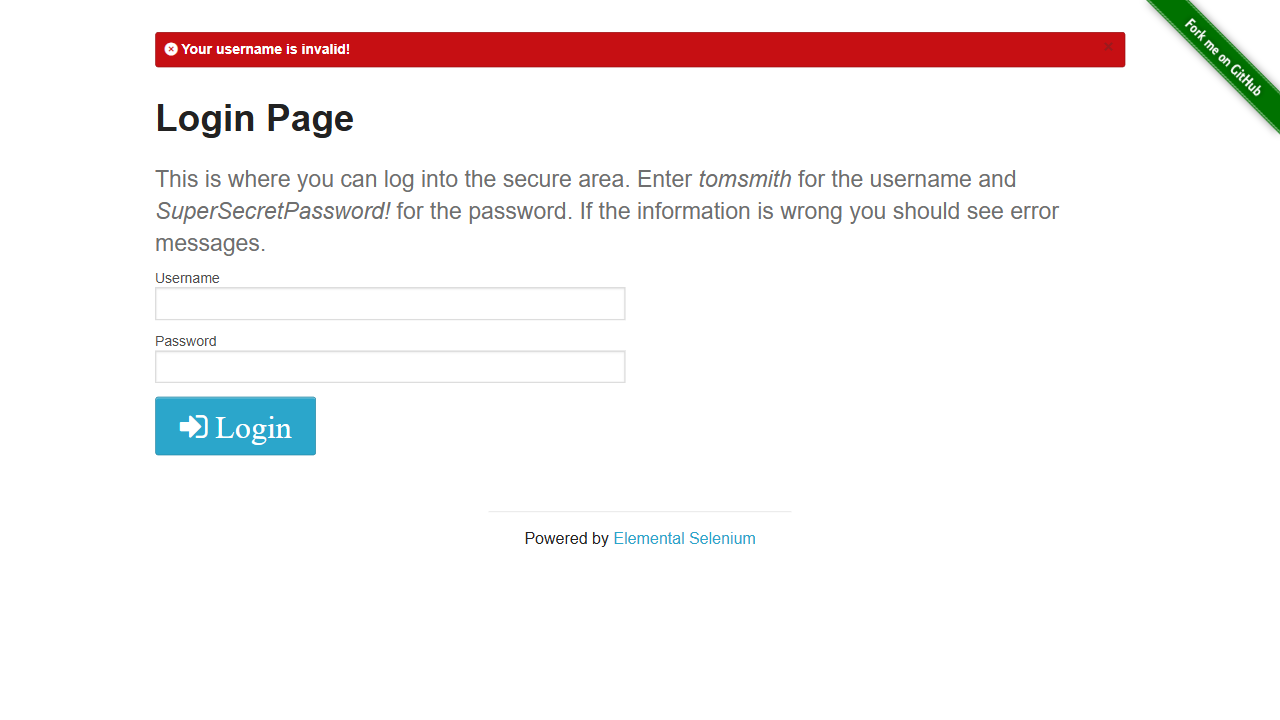
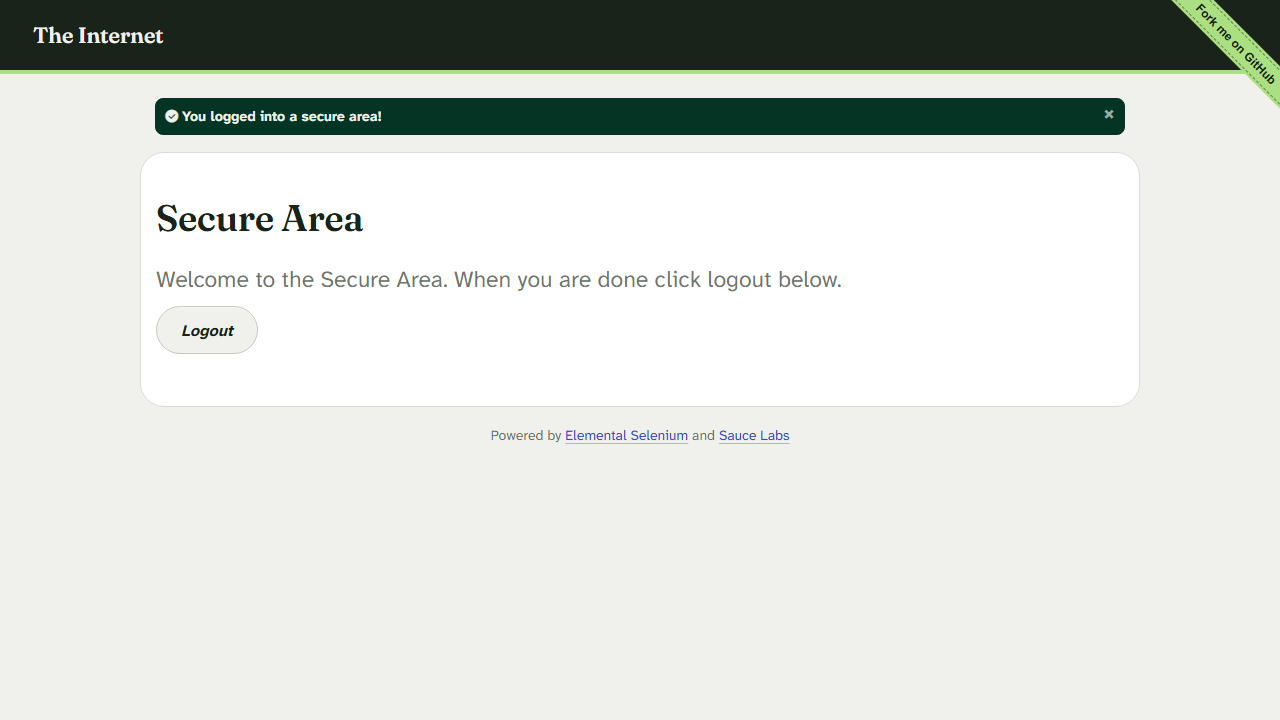
Add test for invalid password scenario in login page

diff --git a/tests/SauceDemo_Login.spec.js b/tests/SauceDemo_Login.spec.js
@@ -1,6 +1,5 @@
 import { test, expect } from '@playwright/test';
-
-
+test.use({ video: 'on' });
 test('SauceDemo - Login, Product and Add to Cart', async ({ page }) => {
 
     // 1. Open website
@@ -54,7 +53,6 @@ test('SauceDemo - Login, Product and Add to Cart', async ({ page }) => {
     await page.waitForTimeout(1500);
 
     console.log('Product Added to Cart');
-    
 
     // 10. Verify cart badge
     await expect(page.locator('.shopping_cart_badge'))
@@ -104,5 +102,75 @@ test('SauceDemo - Login, Product and Add to Cart', async ({ page }) => {
         .toHaveText('Checkout: Your Information');
 
     console.log('Checkout Page Verified');
+    await page.waitForTimeout(1000);
+
+
+    // ==========================================
+    // CUSTOMER INFORMATION
+    // ==========================================
+
+    // 16. Enter First Name
+    await page.locator('#first-name').fill('Sohib');
+    await page.waitForTimeout(500);
+
+    // 17. Enter Last Name
+    await page.locator('#last-name').fill('Khan');
+    await page.waitForTimeout(500);
+
+    // 18. Enter Postal Code
+    await page.locator('#postal-code').fill('302001');
+    await page.waitForTimeout(1000);
+
+    console.log('Customer Information Entered Successfully');
+
+
+    // ==========================================
+    // CHECKOUT OVERVIEW
+    // ==========================================
+
+    // 19. Click Continue
+    await page.getByRole('button', { name: 'Continue' }).click();
+    await page.waitForTimeout(1500);
+
+    // 20. Verify Checkout Overview page
+    await expect(page.locator('.title'))
+        .toHaveText('Checkout: Overview');
+
+    console.log('Checkout Overview Page Verified');
+    await page.waitForTimeout(1000);
+
+
+    // ==========================================
+    // VERIFY PRODUCT ON OVERVIEW
+    // ==========================================
+
+    // 21. Verify product
+    await expect(page.locator('.inventory_item_name'))
+        .toHaveText('Sauce Labs Backpack');
+
+    console.log('Product Verified on Checkout Overview');
+    await page.waitForTimeout(1000);
+
+
+    // ==========================================
+    // FINISH ORDER
+    // ==========================================
+
+    // 22. Click Finish
+    await page.getByRole('button', { name: 'Finish' }).click();
+    await page.waitForTimeout(1500);
+
+    console.log('Finish Button Clicked Successfully');
+
+
+    // ==========================================
+    // VERIFY ORDER CONFIRMATION
+    // ==========================================
+
+    // 23. Verify Thank You message
+    await expect(page.locator('.complete-header'))
+        .toHaveText('Thank you for your order!');
+
+    console.log('Order Placed Successfully');
 
 });

diff --git a/tests/Login_Screenshot.spec.js b/tests/Login_Screenshot.spec.js
@@ -1,18 +1,23 @@
 const { test, expect } = require('@playwright/test');
 
-
-test.use({ video: 'on' });
 test('Login Screenshot', async ({ page }) => {
+    test.setTimeout(60000);
 
-    await page.goto('https://the-internet.herokuapp.com/login');
-
-    await page.locator('#username').fill('jlkdfjklgkjl');
-    await page.locator('#password').fill('15458214');
-    
-    await page.getByRole('button', { name: 'Login' }).click();
-
-    await page.screenshot({
-        path: 'screenshots/after-login1.png'
+    await page.goto('https://the-internet.herokuapp.com/login', {
+        waitUntil: 'domcontentloaded',
+        timeout: 60000,
     });
 
+    await expect(page.locator('h2')).toContainText('Login');
+    await page.locator('#username').fill('tomsmith');
+    await page.locator('#password').fill('SuperSecretPassword!');
+
+    await page.getByRole('button', { name: 'Login' }).click();
+
+    await expect(page.locator('#flash')).toContainText(/You logged into a secure area!/);
+
+    await page.screenshot({
+        path: 'screenshots/after-login1.png',
+        fullPage: true,
+    });
 });

diff --git a/tests/login_hrms.spec.js b/tests/login_hrms.spec.js
@@ -7,14 +7,18 @@ test('login Hrms', async ({ page }) => {
 
   await page.getByRole('textbox', { name: 'Username' }).fill('Admin');
 
-  await page.getByRole('textbox', { name: 'Password' }).fill('admin123');
+  await page.getByRole('textbox', { name: 'Password' }).fill('admin1234');
 
   await page.getByRole('button', { name: 'Login' }).click();
 
   
 
- await expect(page.getByRole('heading', { name: 'Dashboard' })).toBeVisible();
+ //await expect(page.getByRole('heading', { name: 'Dashboard' })).toBeVisible();
 
-  await expect(page).toHaveTitle(/OrangeHRM/);
+  // await expect(page).toHaveTitle(/OrangeHRM/);
+
+   await page.screenshot({
+        path: 'screenshots/after-login2.png'
+    });
 
 });

diff --git a/tests/LOGIN2.spec.js b/tests/LOGIN2.spec.js
@@ -1,0 +1,12 @@
+const { test, expect } = require('@playwright/test');
+
+test('invalid password test', async ({ page }) => {
+    await page.goto('https://opensource-demo.orangehrmlive.com/web/index.php/auth/login');
+
+    await page.locator('input[name="username"]').fill('Admin');
+    await page.locator('input[name="password"]').fill('wrong-password');
+    await page.locator("button[type='submit']").click();
+
+    const errorMessage = page.locator("xpath=//p[contains(@class,'oxd-alert-content-text')]");
+    await expect(errorMessage).toHaveText('Invalid credentials');
+});

diff --git a/tests/video_recording.spec.js b/tests/video_recording.spec.js
@@ -1,6 +1,6 @@
 import { test, expect } from '@playwright/test';
 
-//test.use({ video: 'on' });
+test.use({ video: 'on' });
 
 test('Record OrangeHRM invalid login', async ({ page }) => {
 	await page.goto('https://opensource-demo.orangehrmlive.com/web/index.php/auth/login', {
